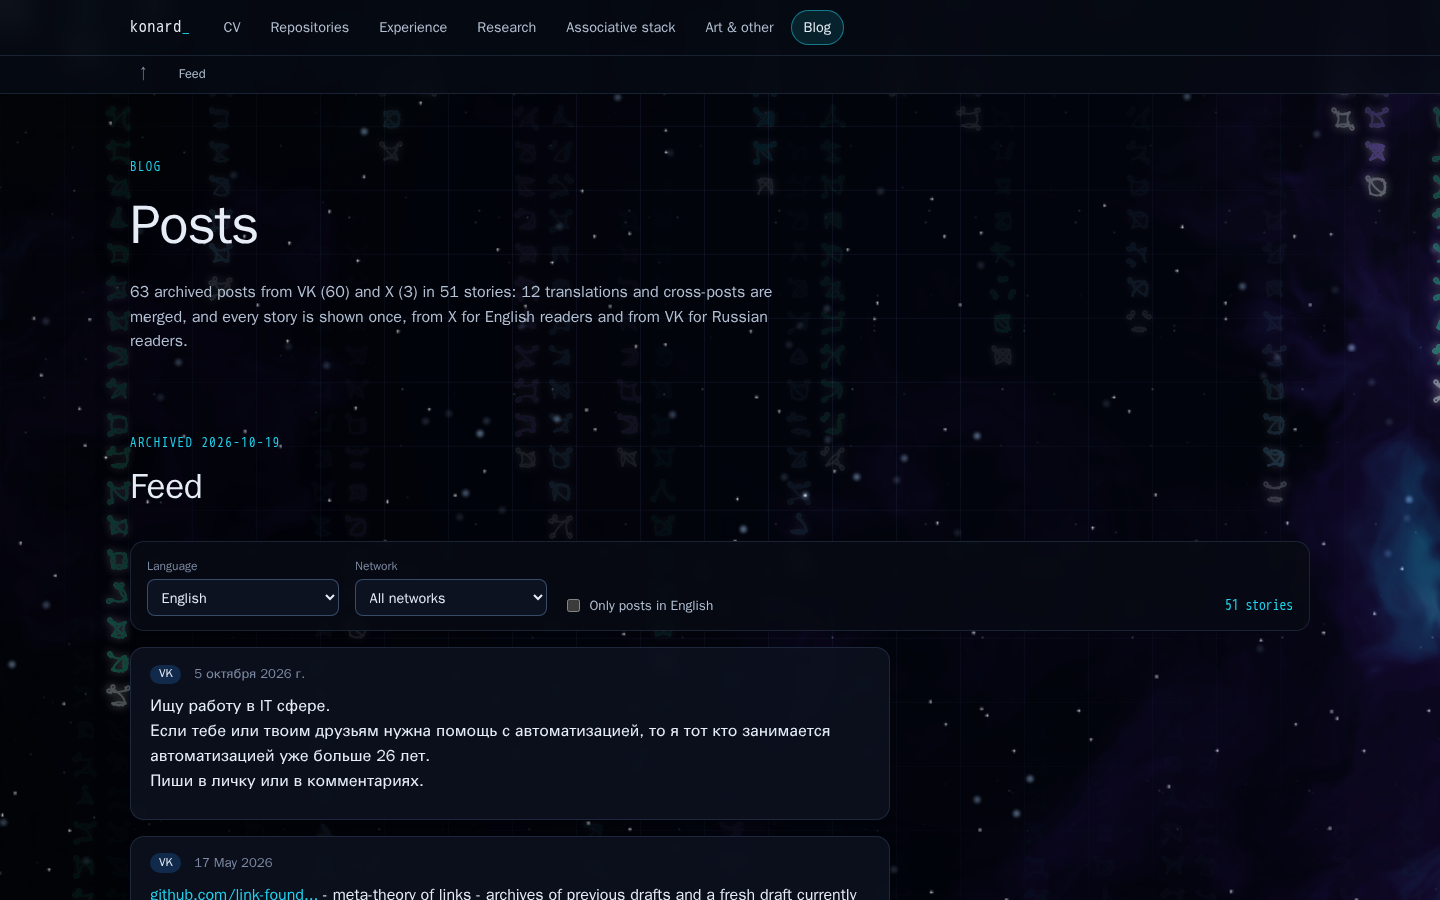
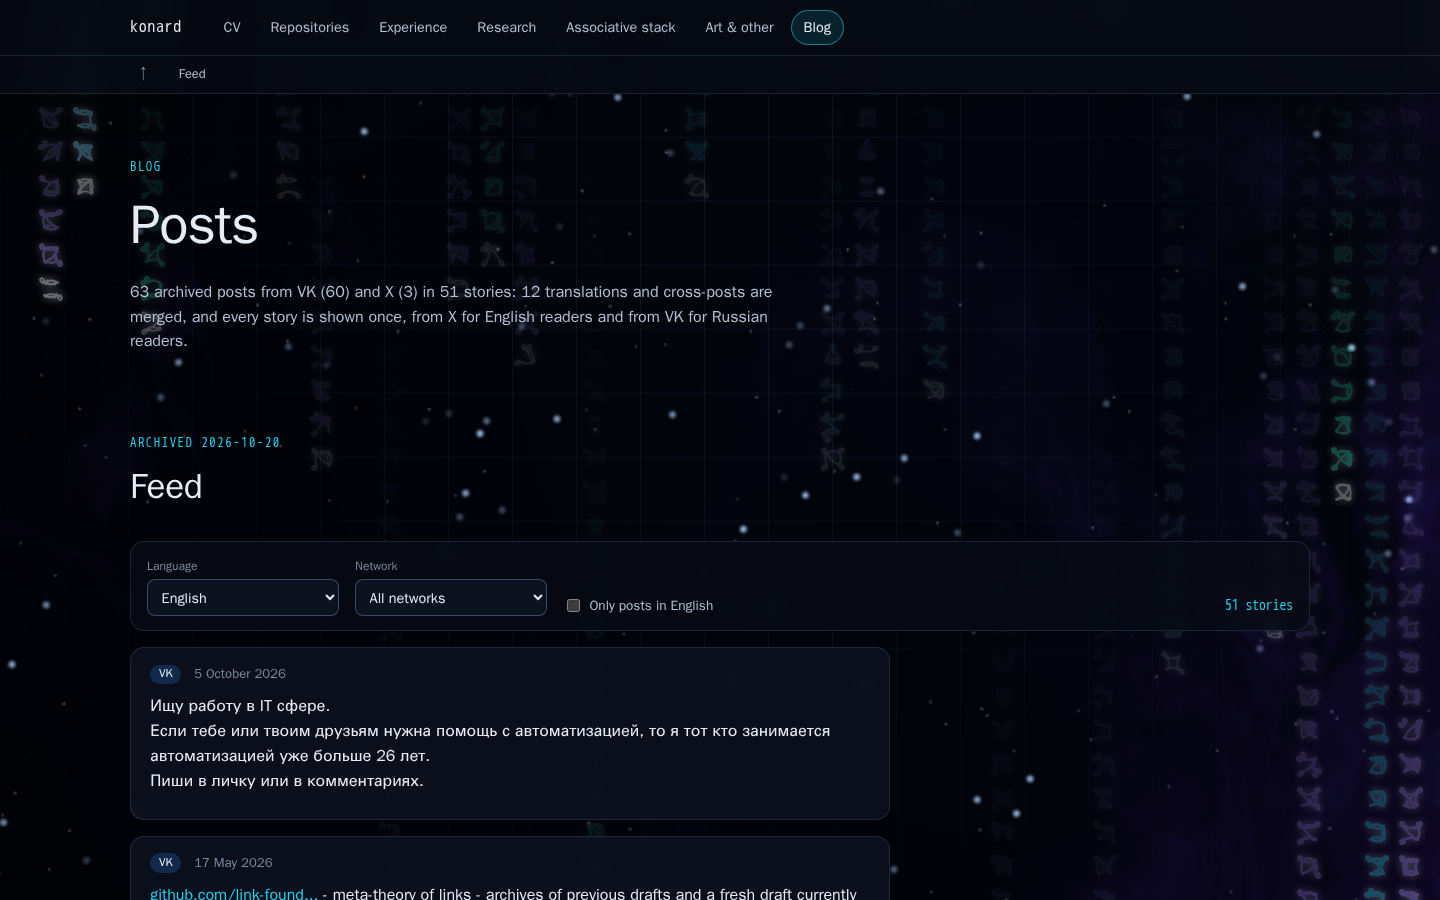
Show a note instead of a broken image for pictures the CDN no longer serves
Two VK pictures 404 even on the live post, so they could not be archived.
Re-take the blog screenshots with the archived pictures loaded.

diff --git a/src/pages/BlogPage.jsx b/src/pages/BlogPage.jsx
@@ -34,6 +34,13 @@ function XEmbed({ id }) {
   );
 }
 
+// A picture that is not archived and no longer served by the CDN becomes a note instead of a broken image.
+function Picture({ src, alt = '' }) {
+  const [failed, setFailed] = useState(false);
+  if (failed) return <span className="post__missing muted">Picture no longer available</span>;
+  return <img src={src} alt={alt} loading="lazy" referrerPolicy="no-referrer" onError={() => setFailed(true)} />;
+}
+
 // Archived copies (public/archive/media) first: CDN links of deleted posts stop working.
 function Media({ items }) {
   if (!items.length) return null;
@@ -42,10 +49,10 @@ function Media({ items }) {
       {items.map((m) => (
         <li key={m.url}>
           {m.type === 'photo' ? (
-            <img src={m.file || m.url} alt={m.alt || ''} loading="lazy" referrerPolicy="no-referrer" />
+            <Picture src={m.file || m.url} alt={m.alt} />
           ) : (
             <a href={m.url} target="_blank" rel="noopener noreferrer" className="post__video">
-              {m.poster && <img src={m.posterFile || m.poster} alt="" loading="lazy" referrerPolicy="no-referrer" />}
+              {m.poster && <Picture src={m.posterFile || m.poster} />}
               <span>▶ video</span>
             </a>
           )}

diff --git a/src/pages/pages.test.jsx b/src/pages/pages.test.jsx
@@ -179,6 +179,15 @@ describe('BlogPage', () => {
     expect(sources.filter((s) => !s.startsWith('/archive/media/') && !notArchived.has(s))).toEqual([]);
   });
 
+  it('replaces a picture the CDN no longer serves with a note, not a broken image', () => {
+    const { container } = render(<BlogPage initialLanguage="ru" />);
+    const url = archive.posts.flatMap((p) => p.media).find((m) => m.fileError).url;
+    const img = [...container.querySelectorAll('.post__media img')].find((i) => i.getAttribute('src') === url);
+    fireEvent.error(img);
+    expect(container.querySelector(`.post__media img[src="${url}"]`)).toBeNull();
+    expect(screen.getAllByText('Picture no longer available').length).toBeGreaterThan(0);
+  });
+
   it('embeds the X post on demand', () => {
     const { container } = render(<BlogPage initialLanguage="en" />);
     fireEvent.click(screen.getAllByRole('button', { name: 'Show embed' })[0]);

diff --git a/src/pages/pages.css b/src/pages/pages.css
@@ -468,6 +468,16 @@
   color: var(--text);
 }
 
+.post__media .post__missing {
+  position: static;
+  display: block;
+  padding: 1.2rem;
+  border: 1px dashed var(--border-strong);
+  border-radius: 10px;
+  background: none;
+  text-align: center;
+}
+
 .post__embed {
   display: block;
   width: 100%;

diff --git a/docs/case-studies/issue-7/README.md b/docs/case-studies/issue-7/README.md
@@ -155,7 +155,7 @@ Tests check that the committed `src/data/github.json` and `src/data/repositories
 | X timeline discovery | The timeline needs a login; syndication returns an empty timeline. | Add tweet URLs to `data/post-urls.txt`, then rerun the archiver. |
 | Telegram feed | `t.me/drakonard` is a personal account; no public channel owned by konard was found. | Once a public channel exists, `t.me/s/<channel>` can be archived and shown with the post widget. |
 | VK embeds | `VK.Widgets.Post` needs a per-post `hash`, which is only issued to logged-in users, so VK posts are shown from the archive. | Hashes from the VK Share dialog. |
-| 2 VK pictures (`vk:3972090_31590`, `vk:3972090_31579`) | The CDN returns 404 for them even on the live page. They are marked with `fileError`, and the page falls back to the CDN link. | Nothing until VK serves them again. |
+| 2 VK pictures (`vk:3972090_31590`, `vk:3972090_31579`) | The CDN returns 404 for them even on the live page. They are marked with `fileError`; the page tries the CDN link and shows "Picture no longer available" when it fails. | Nothing until VK serves them again. |
 
 ## 7. Online research and existing components
 
@@ -193,6 +193,8 @@ Tests check that the committed `src/data/github.json` and `src/data/repositories
 | Art and other | ![art](screenshots/art.png) ![art-symbols](screenshots/art-symbols.png) |
 | Blog (English reader) | ![blog-en](screenshots/blog-en.png) |
 | Blog (Russian reader) | ![blog-ru](screenshots/blog-ru.png) |
+| Blog: archived pictures (served from `/archive/media/`) | ![blog-media](screenshots/blog-media.png) |
+| Blog: a picture the CDN no longer serves | ![blog-missing-picture](screenshots/blog-missing-picture.png) |
 
 ## 9. Refreshing the data
 
